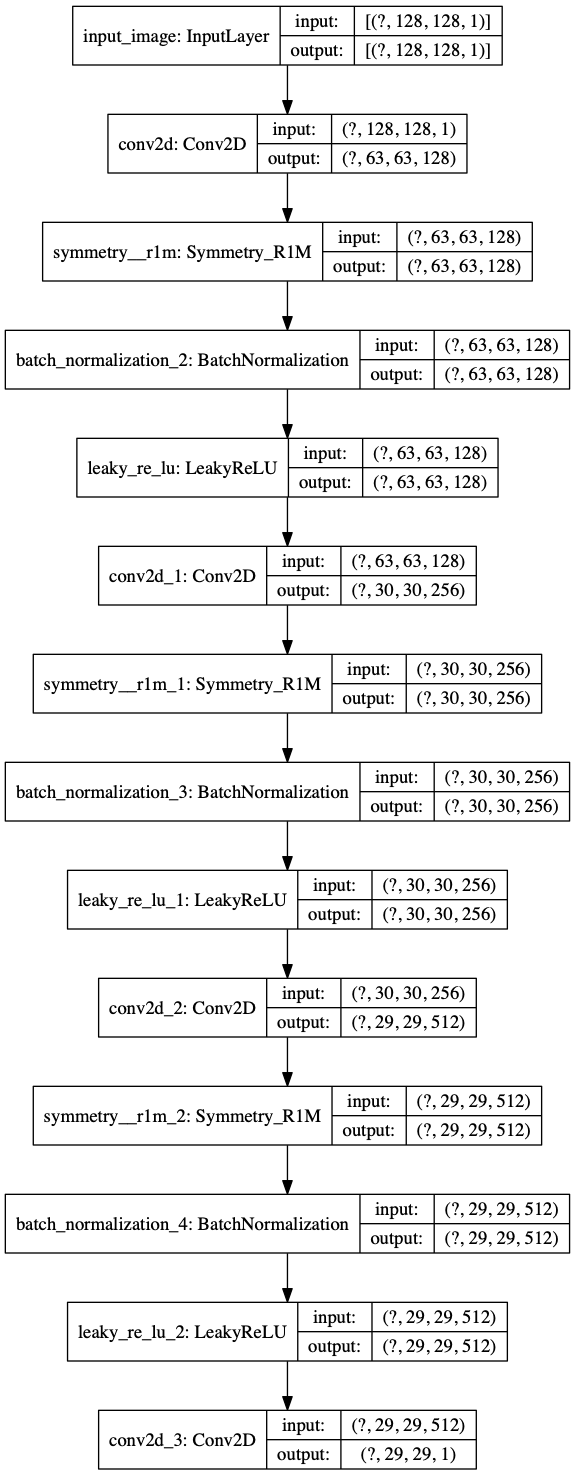
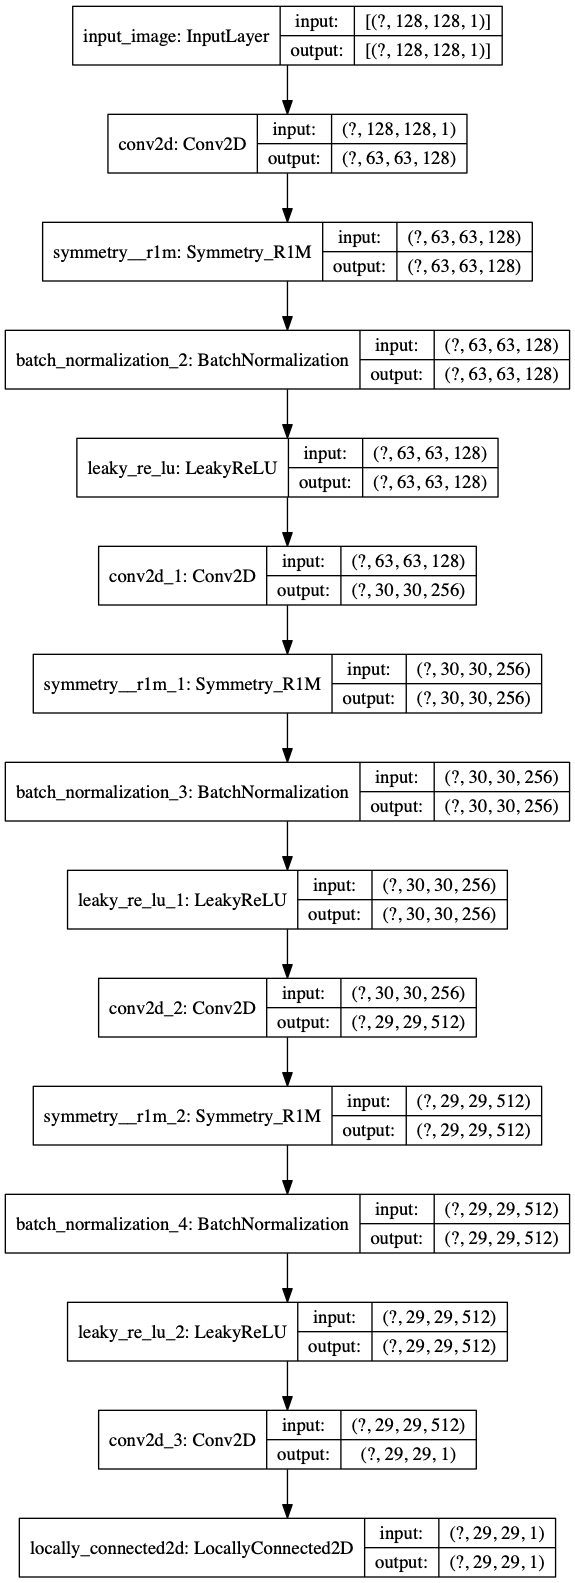
locally connected 2D

Changed region(s): [[0.0, 0.0, 1.0, 0.998], [0.0296, 0.6861, 0.0591, 0.7173]]

diff --git a/model.py b/model.py
@@ -239,7 +239,8 @@ def make_discriminator_model(len_low_size=16, scale=4):
     batchnorm = tf.keras.layers.BatchNormalization()(sym)
     leaky_relu = tf.keras.layers.LeakyReLU(0.2)(batchnorm)
 
-    last = tf.keras.layers.Conv2D(1, 1, strides=1, padding='valid', kernel_initializer=tf.keras.initializers.RandomNormal(mean=0.01, stddev=0.1), use_bias=True, activation='sigmoid')(leaky_relu)
+    last = tf.keras.layers.Conv2D(1, 1, strides=1, padding='valid', kernel_initializer=tf.keras.initializers.RandomNormal(mean=0.01, stddev=0.1), use_bias=True, activation=None)(leaky_relu)
+    last = tf.keras.layers.LocallyConnected2D(1, 1, 1, padding='valid', kernel_initializer=tf.keras.initializers.RandomNormal(mean=0.01, stddev=0.1), use_bias=True, activation='sigmoid')(last)
     return tf.keras.Model(inputs=inp, outputs=last)
 
 def discriminator_bce_loss(real_output, fake_output):
